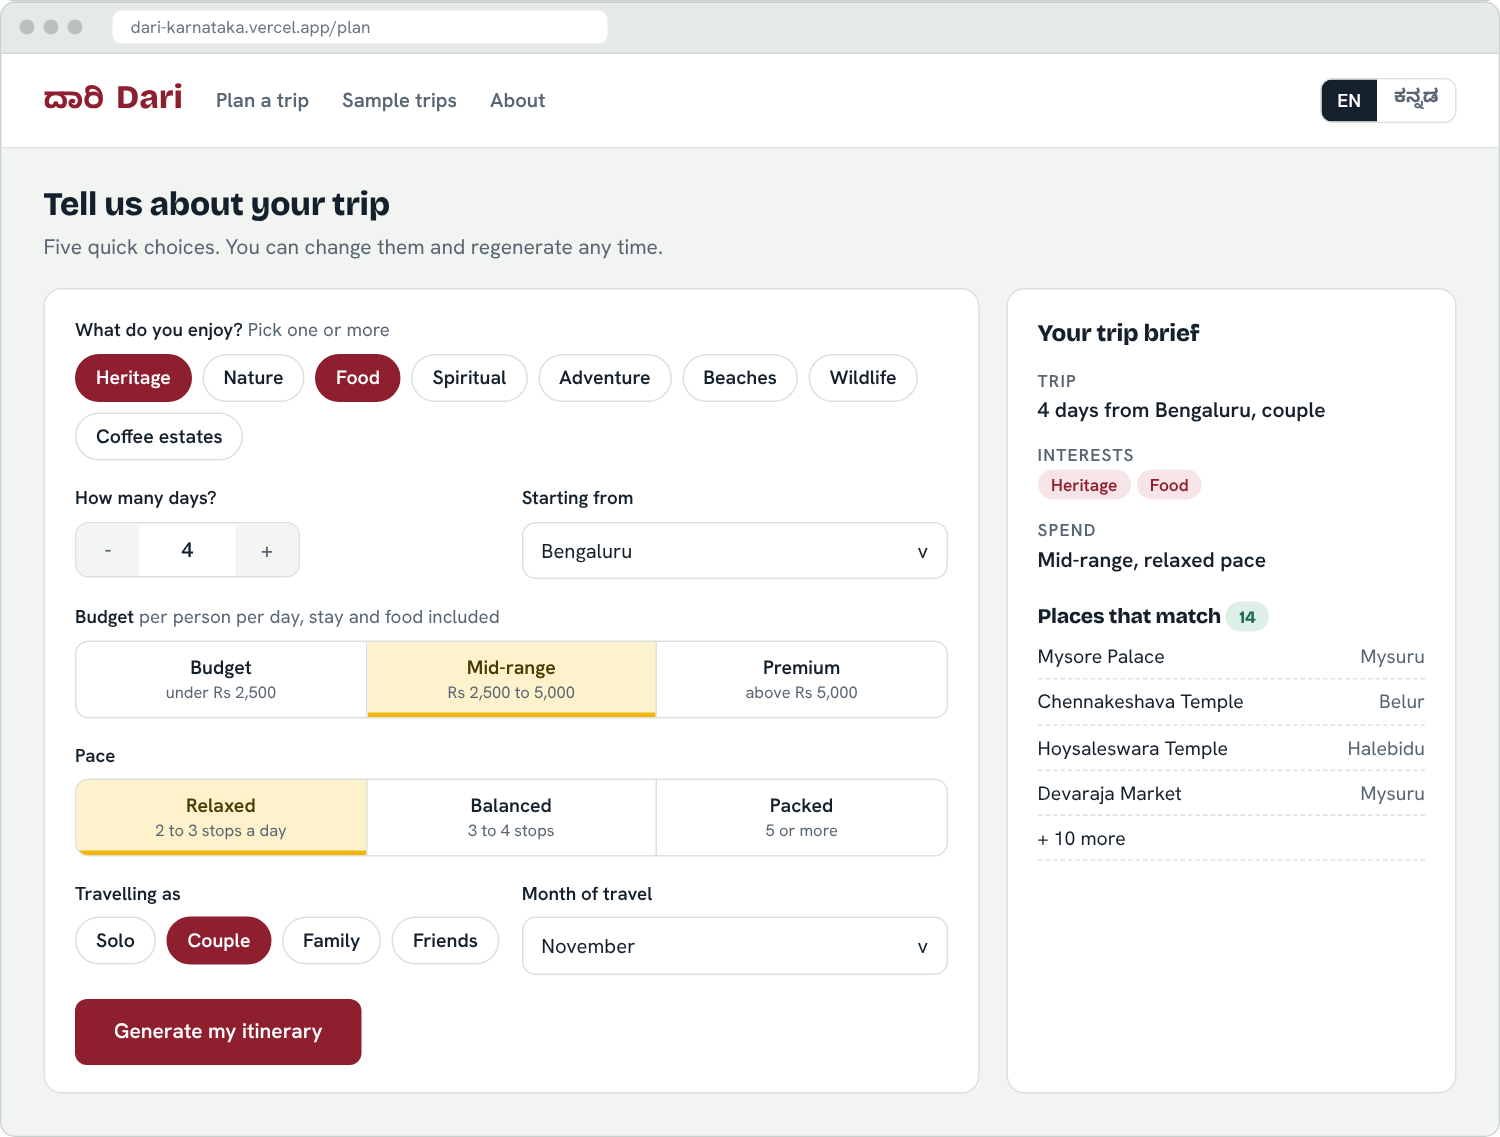
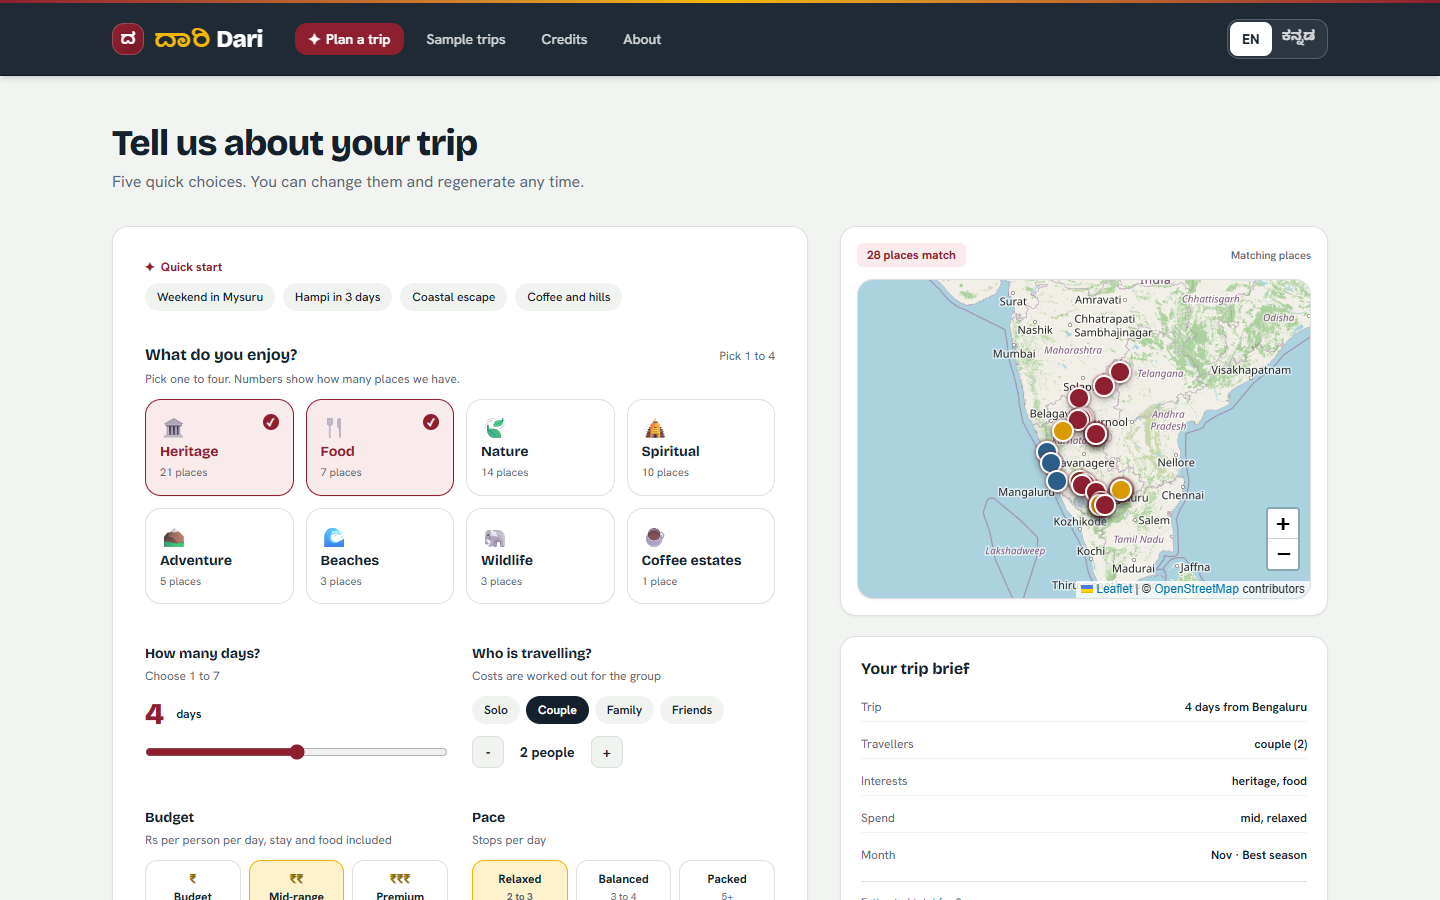
docs: replace mockup screenshots with captures of the live app
The old images were design mockups from 25 Oct and no longer matched the
app. All six screenshots are now real captures, the mobile image shows
the four-tab bar its caption describes, and the architecture diagram is
redrawn to include the fallback planner, the translate and speech
routes, and the bundled data files. Drops the unused error-states image.

diff --git a/README.md b/README.md
@@ -34,20 +34,22 @@ Submitted to the **Kannada Digital Innovation Hackathon 2026**, Travel & Tourism
 
 ## Screenshots
 
+Captured from the live app on 29 October 2026.
+
 | Landing page | Planner form |
 |:---:|:---:|
 | ![Landing page](assets/screenshots/01-landing.png) | ![Planner form](assets/screenshots/02-planner-form.png) |
-| *Hero, quick-start bar and region explorer map* | *Interests, days, group size, budget, pace, month and transport* |
+| *Hero, quick-start bar and feature highlights* | *Quick-start trips, interests with place counts, group, budget and pace, beside a map of matching places* |
 
 | Generating a plan | Itinerary and map |
 |:---:|:---:|
 | ![Generating](assets/screenshots/03-generating.png) | ![Itinerary and map](assets/screenshots/04-itinerary-map.png) |
-| *Progress steps with the real candidate shortlist* | *Day plan, numbered route map and cost breakdown* |
+| *Five progress steps, with the real shortlist on the map and a Kannada word to learn while you wait* | *Trip summary (days, stops, km, cost range, weather), day tabs, stop cards with edit controls, and the route map* |
 
 | Kannada mode | Mobile |
 |:---:|:---:|
 | ![Kannada mode](assets/screenshots/05-kannada-mode.png) | ![Mobile view](assets/screenshots/07-mobile.png) |
-| *Full Kannada interface and the "Show to local" driver card* | *Bottom navigation: Plan, Map, Phrases, Saved* |
+| *Interface, place names and descriptions in Kannada* | *Plan and map views with the Plan, Map, Phrases, Saved bar, and the "Show to local" driver card* |
 
 ## Features
 
